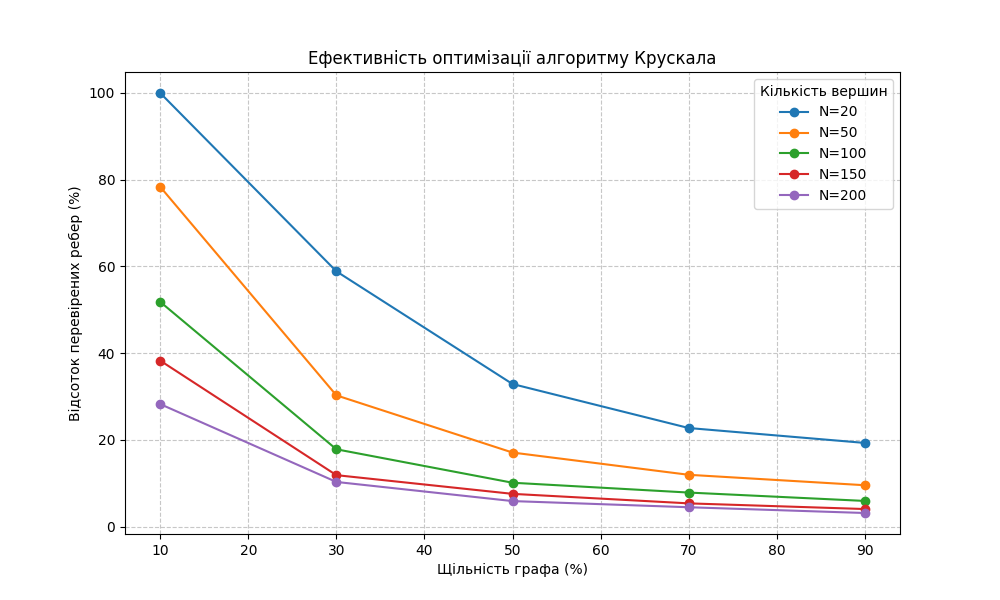
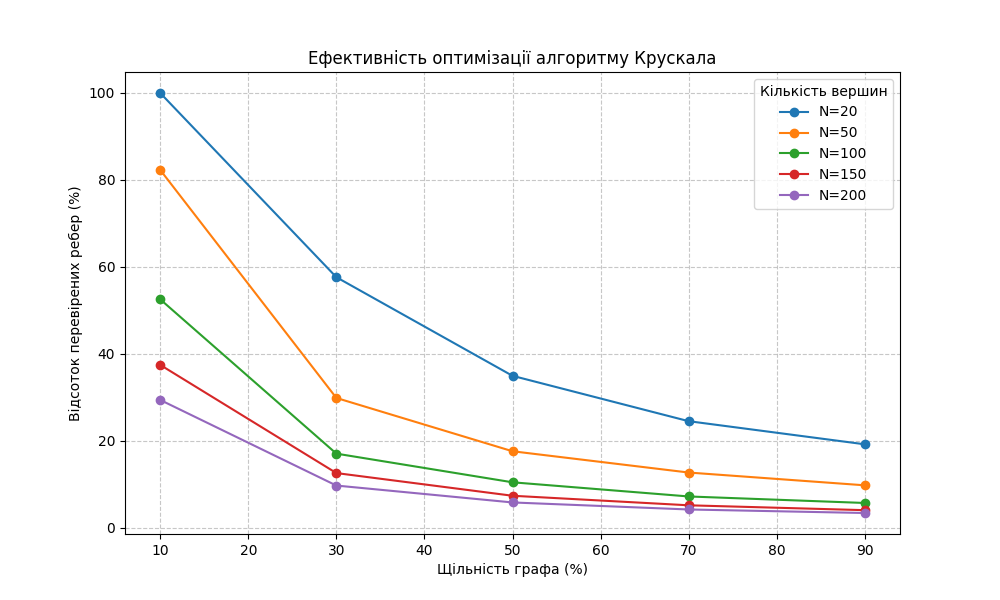
Final version

diff --git a/benchamark.py b/benchamark.py
@@ -7,7 +7,7 @@ class Benchmarks:
     def __init__(self):
         self.SIZES = [20, 50, 100, 150, 200]
         self.DENSITIES = [10, 30, 50, 70, 90]
-        self.ITERATIONS = 25
+        self.ITERATIONS = 200
 
         self.results = []
 
@@ -22,8 +22,6 @@ class Benchmarks:
                 mst_optimized_times = []
                 mst_percentages = []
 
-
-                print(f"🔄 Тестую: {n} вершин, щільність {d}%...", end="\r")
 
                 for _ in range(self.ITERATIONS):
                     graph = Graph(n, d)

diff --git a/Kruskals.py b/Kruskals.py
@@ -44,7 +44,6 @@ class Kruskals:
     def kruskal_mst_optimized(self):
         mst = []
         counter = 0
-        print(f"DEBUG: Parent len: {len(self.dsu.parent)}, Target MST: {len(self.dsu.parent) - 1}")
         for weight, ver1, ver2 in self.weight_li:
             counter += 1
 
